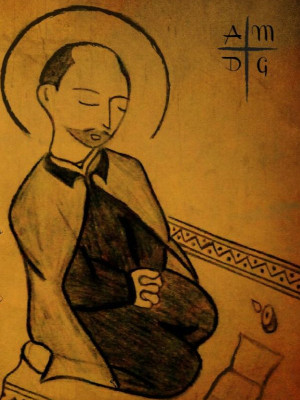
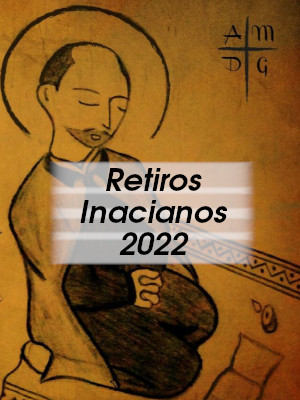
Atualizando a page principal com um link para os retiros inacianos de 2022

Changed region(s): [[0.15, 0.39, 0.87, 0.66]]

diff --git a/index.md b/index.md
@@ -16,7 +16,7 @@ Nós somos uma comunidade cristã que tem como fonte específica e instrumento c
 
 {% include figure.html href="/calendario-atividades" image="/assets/images/calendar.jpg" position="right" width="300" height="800" %}
 
-{% include figure.html href="/" image="/assets/images/oracao-santo-inacio.jpeg" position="left" width="300" height="800" %}
+{% include figure.html href="https://cvx.org.br/retirosinacianos2022/" image="/assets/images/oracao-santo-inacio.jpeg" position="left" width="300" height="800" %}
 
 {% include figure.html %}
 
